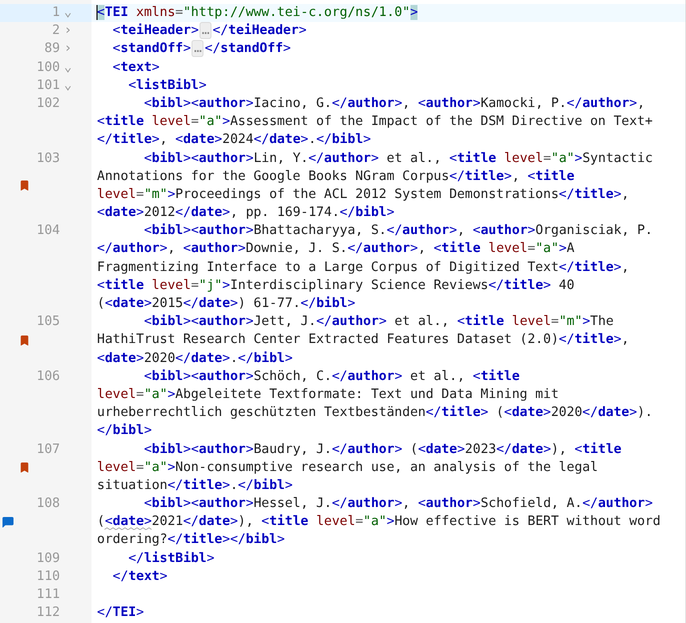
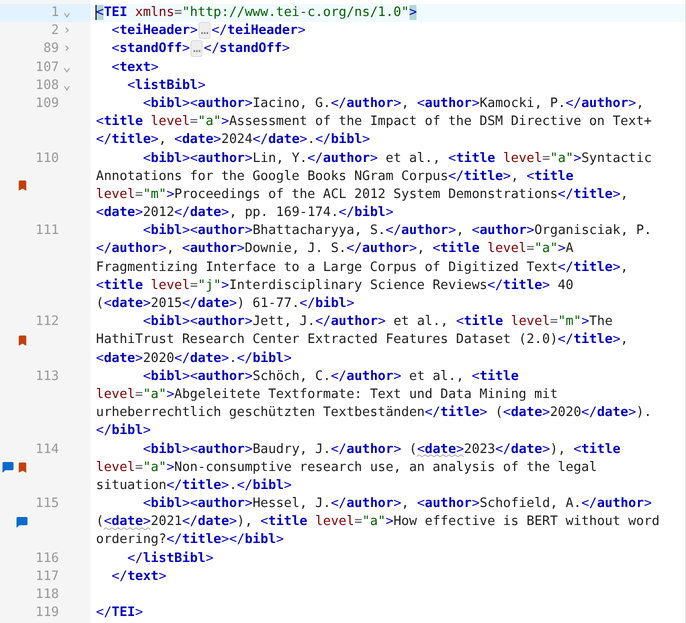
feat(editor): shared gutter column for comment and bookmark markers
Unit comment bubbles and bookmark icons are shown in one gutter column
(line-marker-gutter.js), right-aligned next to the line numbers, side by
side on lines that have both. A click goes to the source of the clicked
marker.

Claude-Session: https://claude.ai/code/session_01S2kb9dDgvdv9w4JMzKcd8j

diff --git a/app/src/modules/codemirror/bookmark-gutter.js b/app/src/modules/codemirror/bookmark-gutter.js
@@ -1,8 +1,9 @@
 // @ts-check
 
 /**
- * CodeMirror gutter for bookmarks: a bookmark icon on the first line of each bookmarked element,
- * with the bookmark titles as tooltip and a count when a line holds several bookmarks.
+ * Gutter markers for bookmarks: a bookmark icon on the first line of each bookmarked element,
+ * with the bookmark titles as tooltip and a count when a line holds several bookmarks. They are
+ * shown in the line marker gutter shared with the unit comments (see line-marker-gutter.js).
  *
  * The markers are computed outside CodeMirror (by the bookmarks plugin) and set with
  * {@link setBookmarkMarkersEffect}; between two updates they are mapped through document changes.
@@ -11,8 +12,9 @@
  * @import { Text, Extension } from '@codemirror/state'
  */
 
-import { StateField, StateEffect, RangeSet, RangeSetBuilder, Prec } from '@codemirror/state';
-import { EditorView as View, gutter, GutterMarker } from '@codemirror/view';
+import { StateField, StateEffect, RangeSet, RangeSetBuilder } from '@codemirror/state';
+import { EditorView as View, GutterMarker } from '@codemirror/view';
+import { lineMarkerSource } from './line-marker-gutter.js';
 
 /**
  * @typedef {object} BookmarkLineMark
@@ -25,26 +27,24 @@ const BOOKMARK = 'M2 2v13.5a.5.5 0 0 0 .74.439L8 13.069l5.26 2.87A.5.5 0 0 0 14 
 
 class BookmarkMarker extends GutterMarker {
   /**
-   * @param {boolean} spacer - Only sets the gutter width
    * @param {number} count
    * @param {string} title
    */
-  constructor(spacer, count, title) {
+  constructor(count, title) {
     super();
-    this.spacer = spacer;
     this.count = count;
     this.title = title;
   }
 
   /** @param {GutterMarker} other */
   eq(other) {
-    return other instanceof BookmarkMarker && other.spacer === this.spacer && other.count === this.count && other.title === this.title;
+    return other instanceof BookmarkMarker && other.count === this.count && other.title === this.title;
   }
 
   toDOM() {
     const el = document.createElement('div');
     el.className = 'cm-bm-marker';
-    if (this.spacer) return el;
+    el.dataset.markerSource = 'bookmark';
     el.dataset.testid = 'bookmark-gutter-marker';
     el.innerHTML = `<svg viewBox="0 0 16 16" width="10" height="11" fill="currentColor" aria-hidden="true"><path d="${BOOKMARK}"/></svg>`;
     if (this.count > 1) el.dataset.count = String(this.count);
@@ -52,8 +52,6 @@ class BookmarkMarker extends GutterMarker {
     return el;
   }
 }
-
-const spacer = new BookmarkMarker(true, 0, '');
 
 /** @type {import('@codemirror/state').StateEffectType<RangeSet<GutterMarker>>} */
 export const setBookmarkMarkersEffect = StateEffect.define();
@@ -79,14 +77,12 @@ export function buildBookmarkMarkers(doc, marks) {
   for (const mark of [...marks].sort((a, b) => a.line - b.line)) {
     if (mark.line < 1 || mark.line > doc.lines) continue;
     const from = doc.line(mark.line).from;
-    builder.add(from, from, new BookmarkMarker(false, mark.count, mark.title));
+    builder.add(from, from, new BookmarkMarker(mark.count, mark.title));
   }
   return /** @type {RangeSet<GutterMarker>} */ (builder.finish());
 }
 
 const theme = View.baseTheme({
-  '.cm-bookmark-gutter .cm-gutterElement': { cursor: 'pointer', display: 'flex', alignItems: 'center', paddingLeft: '3px' },
-  '.cm-bookmark-gutter': { minWidth: '15px' },
   '.cm-bm-marker': { position: 'relative', width: '11px', lineHeight: '0', color: '#c2410c' },
   '.cm-bm-marker[data-count]::after': {
     content: 'attr(data-count)', position: 'absolute', top: '-4px', right: '-3px', fontSize: '8px', lineHeight: '1',
@@ -95,25 +91,10 @@ const theme = View.baseTheme({
 });
 
 /**
- * The gutter extension. It is placed with the unit comment gutter, before the line numbers.
+ * The bookmark markers in the line marker gutter, next to the unit comment markers.
  * @param {(view: EditorView, line: BlockInfo) => boolean} onClick
  * @returns {Extension}
  */
 export function bookmarkGutter(onClick) {
-  return [
-    markerField,
-    Prec.high(gutter({
-      class: 'cm-bookmark-gutter',
-      markers: view => view.state.field(markerField),
-      initialSpacer: () => spacer,
-      domEventHandlers: {
-        mousedown: (view, line, event) => {
-          if (/** @type {MouseEvent} */ (event).button !== 0) return false;
-          event.preventDefault();
-          return onClick(view, line);
-        }
-      }
-    })),
-    theme
-  ];
+  return [lineMarkerSource({ id: 'bookmark', field: markerField, onClick }), theme];
 }

diff --git a/app/src/modules/codemirror/line-marker-gutter.js b/app/src/modules/codemirror/line-marker-gutter.js
@@ -1,0 +1,102 @@
+// @ts-check
+
+/**
+ * A gutter shared by several sources of line markers, such as unit comments and bookmarks. The
+ * markers of all sources on a line are shown next to each other, right-aligned towards the line
+ * numbers, so that a line with a single marker has it at the same place whatever its source.
+ *
+ * A source contributes a state field with its markers through {@link lineMarkerSource}. The gutter
+ * is part of the editor while at least one source is configured. A click on a marker goes to the
+ * source that owns it (its DOM element carries `data-marker-source`); a click elsewhere on the
+ * line goes to the first source with a marker on the line.
+ *
+ * @import { EditorView, BlockInfo } from '@codemirror/view'
+ * @import { StateField, Extension } from '@codemirror/state'
+ */
+
+import { Facet, RangeSet, Prec } from '@codemirror/state';
+import { EditorView as View, gutter, GutterMarker } from '@codemirror/view';
+
+/**
+ * A source of line markers
+ * @typedef {object} LineMarkerSourceSpec
+ * @property {string} id - Set as `data-marker-source` on the source's marker elements
+ * @property {StateField<RangeSet<GutterMarker>>} field - The source's markers
+ * @property {(view: EditorView, line: BlockInfo) => boolean} [onClick]
+ */
+
+/** @type {Facet<LineMarkerSourceSpec, readonly LineMarkerSourceSpec[]>} */
+const lineMarkerSources = Facet.define();
+
+class SpacerMarker extends GutterMarker {
+  toDOM() {
+    const el = document.createElement('div');
+    el.className = 'cm-line-marker-spacer';
+    return el;
+  }
+}
+
+/**
+ * Whether a marker set has a marker at the start of a line.
+ * @param {RangeSet<GutterMarker>} set
+ * @param {number} from
+ * @returns {boolean}
+ */
+function hasMarkerAt(set, from) {
+  let found = false;
+  set.between(from, from, (start) => {
+    if (start === from) {
+      found = true;
+      return false;
+    }
+  });
+  return found;
+}
+
+/**
+ * The marker sets of the configured sources, in the order of their configuration.
+ * @param {EditorView} view
+ * @returns {RangeSet<GutterMarker>[]}
+ */
+function markerSets(view) {
+  return view.state.facet(lineMarkerSources).map(source => view.state.field(source.field, false) ?? RangeSet.empty);
+}
+
+const theme = View.baseTheme({
+  '.cm-line-marker-gutter .cm-gutterElement': {
+    cursor: 'pointer', display: 'flex', alignItems: 'center', justifyContent: 'flex-end', gap: '3px',
+    padding: '0 2px 0 3px'
+  },
+  '.cm-line-marker-spacer': { width: '12px' }
+});
+
+// one instance, so that CodeMirror adds the gutter once however many sources are configured
+const sharedGutter = [
+  Prec.high(gutter({
+    class: 'cm-line-marker-gutter',
+    markers: view => markerSets(view),
+    initialSpacer: () => new SpacerMarker(),
+    domEventHandlers: {
+      mousedown: (view, line, event) => {
+        if (/** @type {MouseEvent} */ (event).button !== 0) return false;
+        const sources = view.state.facet(lineMarkerSources);
+        const target = /** @type {HTMLElement|null} */ (/** @type {Element} */ (event.target)?.closest?.('[data-marker-source]'));
+        const source = sources.find(s => s.id === target?.dataset.markerSource)
+          ?? sources.find(s => hasMarkerAt(view.state.field(s.field, false) ?? RangeSet.empty, line.from));
+        if (!source?.onClick) return false;
+        event.preventDefault();
+        return source.onClick(view, line);
+      }
+    }
+  })),
+  theme
+];
+
+/**
+ * Adds a source of markers to the shared line marker gutter (and the gutter if it is not there yet).
+ * @param {LineMarkerSourceSpec} spec
+ * @returns {Extension}
+ */
+export function lineMarkerSource(spec) {
+  return [spec.field, lineMarkerSources.of(spec), sharedGutter];
+}

diff --git a/app/src/modules/codemirror/unit-comment-gutter.js b/app/src/modules/codemirror/unit-comment-gutter.js
@@ -1,8 +1,9 @@
 // @ts-check
 
 /**
- * CodeMirror gutter for unit comments: a speech bubble on the first line of each commented
- * element, blue while a thread is open, grey when all threads of the line are resolved.
+ * Gutter markers for unit comments: a speech bubble on the first line of each commented
+ * element, blue while a thread is open, grey when all threads of the line are resolved. They are
+ * shown in the line marker gutter shared with the bookmarks (see line-marker-gutter.js).
  *
  * The markers are computed outside CodeMirror (by the unit-comments plugin) and set with
  * {@link setUnitCommentMarkersEffect}; between two updates they are mapped through document changes.
@@ -11,8 +12,9 @@
  * @import { Text, Extension } from '@codemirror/state'
  */
 
-import { StateField, StateEffect, RangeSet, RangeSetBuilder, Prec } from '@codemirror/state';
-import { EditorView as View, gutter, GutterMarker } from '@codemirror/view';
+import { StateField, StateEffect, RangeSet, RangeSetBuilder } from '@codemirror/state';
+import { EditorView as View, GutterMarker } from '@codemirror/view';
+import { lineMarkerSource } from './line-marker-gutter.js';
 
 /**
  * @typedef {object} CommentLineMark
@@ -26,7 +28,7 @@ const BUBBLE = 'M2 0a2 2 0 0 0-2 2v12.793a.5.5 0 0 0 .854.353l2.853-2.853A1 1 0 
 
 class BubbleMarker extends GutterMarker {
   /**
-   * @param {'open'|'resolved'|'spacer'} state
+   * @param {'open'|'resolved'} state
    * @param {number} count
    * @param {string} title
    */
@@ -45,16 +47,13 @@ class BubbleMarker extends GutterMarker {
   toDOM() {
     const el = document.createElement('div');
     el.className = `cm-uc-bubble cm-uc-${this.state}`;
-    if (this.state === 'spacer') return el;
+    el.dataset.markerSource = 'unit-comment';
     el.innerHTML = `<svg viewBox="0 0 16 16" width="11" height="11" fill="currentColor" aria-hidden="true"><path d="${BUBBLE}"/></svg>`;
     if (this.count > 1) el.dataset.count = String(this.count);
     if (this.title) el.title = this.title;
     return el;
   }
 }
-
-// sets the gutter width only, never shown
-const spacer = new BubbleMarker('spacer', 0, '');
 
 /** @type {import('@codemirror/state').StateEffectType<RangeSet<GutterMarker>>} */
 export const setUnitCommentMarkersEffect = StateEffect.define();
@@ -86,8 +85,6 @@ export function buildUnitCommentMarkers(doc, marks) {
 }
 
 const theme = View.baseTheme({
-  '.cm-unit-comment-gutter .cm-gutterElement': { cursor: 'pointer', display: 'flex', alignItems: 'center', paddingLeft: '3px' },
-  '.cm-unit-comment-gutter': { minWidth: '17px' },
   '.cm-uc-bubble': { position: 'relative', width: '12px', lineHeight: '0' },
   '.cm-uc-open': { color: '#0b6bcb' },
   '.cm-uc-resolved': { color: '#a0a6ae' },
@@ -98,25 +95,11 @@ const theme = View.baseTheme({
 });
 
 /**
- * The gutter extension. It is placed after the unit review strip, before the line numbers.
+ * The comment markers in the line marker gutter, which is placed after the unit review strip,
+ * before the line numbers.
  * @param {(view: EditorView, line: BlockInfo) => boolean} onClick
  * @returns {Extension}
  */
 export function unitCommentGutter(onClick) {
-  return [
-    markerField,
-    Prec.high(gutter({
-      class: 'cm-unit-comment-gutter',
-      markers: view => view.state.field(markerField),
-      initialSpacer: () => spacer,
-      domEventHandlers: {
-        mousedown: (view, line, event) => {
-          if (/** @type {MouseEvent} */ (event).button !== 0) return false;
-          event.preventDefault();
-          return onClick(view, line);
-        }
-      }
-    })),
-    theme
-  ];
+  return [lineMarkerSource({ id: 'unit-comment', field: markerField, onClick }), theme];
 }

diff --git a/tests/e2e/tests/unit-comments.spec.js b/tests/e2e/tests/unit-comments.spec.js
@@ -206,7 +206,7 @@ test.describe('Unit comments', () => {
       await waitForTestMessage(consoleLogs, 'NEW_VERSION_LOADED');
       await expect.poll(async () => editorText(page)).not.toContain('unit-comment');
       await expect(page.getByTestId('unit-comment-meter')).toBeHidden();
-      await expect(page.locator('.cm-unit-comment-gutter')).toHaveCount(0);
+      await expect(page.locator('.cm-line-marker-gutter')).toHaveCount(0);
     } finally {
       await releaseAllLocks(page);
       await performLogout(page);

diff --git a/docs/history/2026-11-14-bookmarks.md b/docs/history/2026-11-14-bookmarks.md
@@ -16,7 +16,7 @@ Requested by Christian (2026-11-14): private bookmarks on sub-elements of `/TEI/
 
 - Plugin `app/src/plugins/bookmarks.js`, templates `bookmarks-dialog.html` and `bookmarks-menu-item.html`.
 - Context menu: "Bookmark…" is prepended to the editor's context menu (above "Comment…"). The prompt is `openCommentPrompt()` of `unit-review-popover.js`, which gained the options `maxLength` and `selectAll`; the proposed title is the start of the element's text, selected so that typing replaces it.
-- Gutter (Christian, 2026-11-14): `app/src/modules/codemirror/bookmark-gutter.js` shows an orange bookmark icon on the first line of each bookmarked element of the open document, like the unit comment bubble (title as tooltip, count for several bookmarks on a line). The plugin loads the document's bookmarks on `editorAfterLoad` and on `bookmarksChanged`, tracks the element positions through edits, and adds the gutter only while the document has bookmarks. Clicking a marker selects the element.
+- Gutter (Christian, 2026-11-14): bookmarks and unit comments share one gutter column, `app/src/modules/codemirror/line-marker-gutter.js` (a facet of marker sources; the markers of a line are right-aligned side by side, a click goes to the source of the clicked marker). `app/src/modules/codemirror/bookmark-gutter.js` shows an orange bookmark icon on the first line of each bookmarked element of the open document, like the unit comment bubble (title as tooltip, count for several bookmarks on a line). The plugin loads the document's bookmarks on `editorAfterLoad` and on `bookmarksChanged`, tracks the element positions through edits, and adds the gutter only while the document has bookmarks. Clicking a marker selects the element.
 - Dialog: "All documents / This document" switch (opens on "This document" when the open document has bookmarks), client-side search, inline rename, delete.
 - `relativeTime()` moved from `messages.js` to `app/src/modules/relative-time.js`; `DocLabels` moved from `routers/messages.py` to `fastapi_app/lib/repository/doc_labels.py`, both shared by messages and bookmarks.
 

diff --git a/docs/user-manual/bookmarks.md b/docs/user-manual/bookmarks.md
@@ -17,7 +17,7 @@ The entry is disabled outside `<text>`, for example in the `teiHeader` or the `s
 
 ## Bookmarks in the editor
 
-The bookmarked elements of the open document are marked with an orange bookmark icon in the gutter of the XML editor, next to the line numbers, like [unit comments](unit-comments.md) with their speech bubble. Hover over the icon to see the bookmark's title; a number on the icon shows several bookmarks on one line. Click the icon to select the bookmarked element. The markers follow the elements while you edit.
+The bookmarked elements of the open document are marked with an orange bookmark icon in the gutter of the XML editor, next to the line numbers. Bookmarks share this column with the speech bubbles of [unit comments](unit-comments.md): a line with both shows the bubble and the bookmark side by side. Hover over the icon to see the bookmark's title; a number on the icon shows several bookmarks on one line. Click the icon to select the bookmarked element. The markers follow the elements while you edit.
 
 ![](../images/bookmarks-gutter.png)
 
